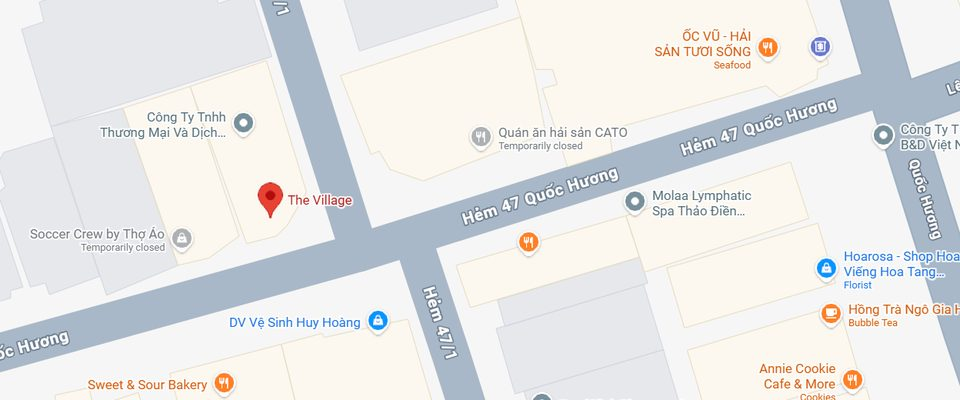
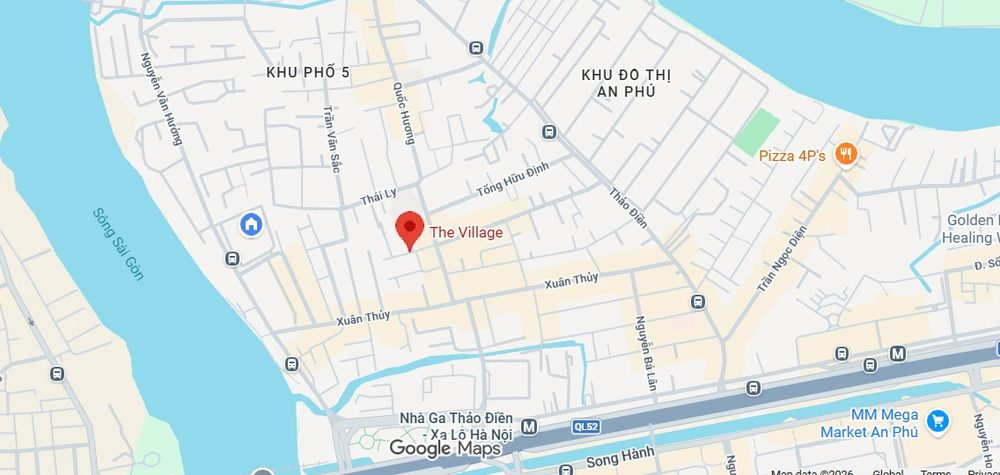
Change list #7b: map picture widened to the Thao Dien neighbourhood
Claude-Session: https://claude.ai/code/session_01KTmKzUrfkm65dkr3YdXDcd

diff --git a/apps/booking/src/app/globals.css b/apps/booking/src/app/globals.css
@@ -125,8 +125,8 @@ a { color: var(--forrest-deep); }
 .hero-text { position: relative; z-index: 1; padding: 14px 18px; color: var(--linen); }
 .hero-text p { margin: 4px 0 0; font-size: 14px; }
 .hero-title { font-size: 26px; line-height: 1.1; color: var(--linen); }
-.map-picture { position: relative; display: block; height: 150px; border-radius: 16px; overflow: hidden; }
-.map-picture img { width: 100%; height: 100%; object-fit: cover; object-position: 30% 62%; display: block; }
+.map-picture { position: relative; display: block; height: 180px; border-radius: 16px; overflow: hidden; }
+.map-picture img { width: 100%; height: 100%; object-fit: cover; object-position: 41% 75%; display: block; }
 .map-credit { position: absolute; right: 6px; bottom: 4px; font-size: 9.5px; color: #3b3a2a; background: rgba(255, 255, 255, .75); padding: 1px 5px; border-radius: 6px; }
 .map-placeholder { height: 110px; border-radius: 16px; background: repeating-linear-gradient(45deg, var(--sky) 0 14px, #efe9d6 14px 28px); display: flex; align-items: center; justify-content: center; gap: 6px; color: var(--forrest-deep); font-size: 13px; font-weight: 600; }
 

diff --git a/apps/website/src/app/globals.css b/apps/website/src/app/globals.css
@@ -44,7 +44,7 @@ a { color: var(--forrest-deep); }
 .visit { display: flex; flex-wrap: wrap; gap: 32px; align-items: center; padding-top: 56px; padding-bottom: 56px; }
 .visit > div { flex: 1 1 380px; }
 .map { flex: 1 1 380px; min-height: 260px; border-radius: 26px; position: relative; overflow: hidden; display: block; background: var(--sky); }
-.map img { position: absolute; inset: 0; width: 100%; height: 100%; object-fit: cover; object-position: 30% 62%; }
+.map img { position: absolute; inset: 0; width: 100%; height: 100%; object-fit: cover; object-position: 41% 75%; }
 .map-credit { position: absolute; right: 10px; bottom: 8px; font-size: 11px; color: #3b3a2a; background: rgba(255, 255, 255, .75); padding: 1px 6px; border-radius: 6px; }
 .footer { display: flex; justify-content: space-between; flex-wrap: wrap; gap: 12px; padding-top: 24px; padding-bottom: 32px; border-top: 1px solid var(--sage); font-size: 14px; }
 .footer-links { display: flex; gap: 16px; }

diff --git a/apps/booking/src/app/page.tsx b/apps/booking/src/app/page.tsx
@@ -41,7 +41,7 @@ export default async function Home() {
           {/* Change list #7: a picture of the map (owners' Google Maps screenshot); tapping opens Google Maps. */}
           <a className="map-picture" href={settings.mapsUrl ?? undefined} target="_blank" rel="noopener noreferrer" aria-label={t("mapAlt")}>
             {/* eslint-disable-next-line @next/next/no-img-element */}
-            <img src="/brand/map-the-village.jpg" alt="" width={960} height={400} />
+            <img src="/brand/map-the-village.jpg" alt="" width={1000} height={475} />
             <span className="map-credit">Map data © Google</span>
           </a>
           <div style={{ padding: "0 4px" }}>

diff --git a/apps/website/src/app/[locale]/page.tsx b/apps/website/src/app/[locale]/page.tsx
@@ -113,7 +113,7 @@ export default async function Home({ params }: PageProps<"/[locale]">) {
           {/* Change list #7: a picture of the map (owners' Google Maps screenshot); tapping opens Google Maps. */}
           <a className="map" href={s.mapsUrl ?? undefined} target="_blank" rel="noopener noreferrer" aria-label={t("mapAlt")}>
             {/* eslint-disable-next-line @next/next/no-img-element */}
-            <img src="/brand/map-the-village.jpg" alt="" width={960} height={400} />
+            <img src="/brand/map-the-village.jpg" alt="" width={1000} height={475} />
             <span className="map-credit">Map data © Google</span>
           </a>
         </section>

diff --git a/docs/change-list.md b/docs/change-list.md
@@ -12,3 +12,4 @@ Designs were signed off on 25 Oct 2026 (canvas version 70). Any change to what w
 | 6 | 27 Oct | **Home "Coming up" shows the next 3 sessions people can book** (more than 1 hour away and not full), looking across the whole 1-month booking window instead of only 14 days, so it isn't empty when the first classes are weeks away | Jack (home page showed nothing before 16 Nov) | 15 minutes | **Agreed 27 Oct** (Jack asked) | `fix/month-week-show-all` |
 | 7 | 27 Oct | **Map picture instead of the striped placeholder** on the booking home page and the website: the owners' Google Maps screenshot of 47/1 Quốc Hương (cropped around the pin, 45 KB), with a small "Map data © Google" credit; tapping it opens Google Maps | Jack (screenshot supplied) | 30 minutes | **Agreed 27 Oct** (Jack asked) | `change/7-map-image` |
 | 8 | 27 Oct | **Booking app on a computer: sage backdrop either side of the phone-width page** (#C3BF94), the page itself stays cream with a soft shadow; phones unchanged, staff app unchanged | Jack (page looked lost on a PC) | 20 minutes | **Agreed 27 Oct** (Jack chose sage over sky) | `change/8-desktop-backdrop` |
+| 7b | 27 Oct | **Map picture widened to the Thảo Điền neighbourhood** (replaces #7's street close-up): The Village with Quốc Hương, Xuân Thủy, Thảo Điền road, the river and the Thảo Điền metro station, so people get their bearings at a glance | Jack (screenshot supplied) | 15 minutes | **Agreed 27 Oct** (Jack asked) | `change/7b-neighbourhood-map` |
